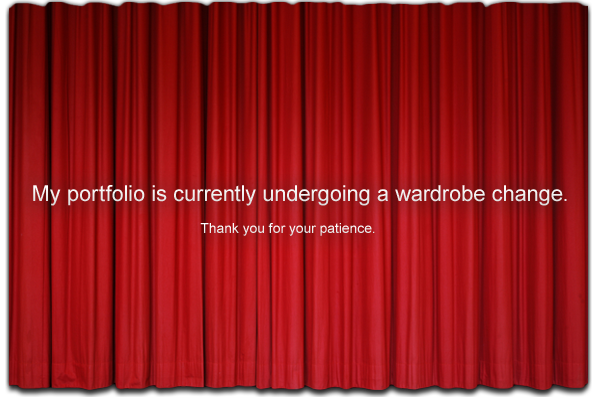
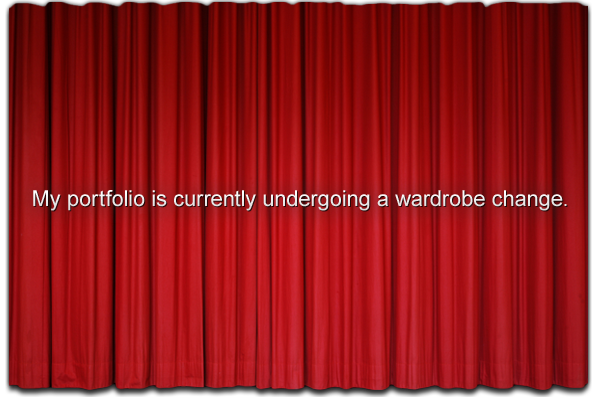
added back soon message

Changed region(s): [[0.06, 0.4534, 0.96, 0.6045]]

diff --git a/templates/index.html b/templates/index.html
@@ -45,7 +45,10 @@
     <section id="portfolio">
       <h2>Portfolio</h2>
             
-      <p><img src="/images/wardrobe_change.png" class="curtain" alt="My portfolio is currently undergoing a wardrobe change."></p>
+      <p>
+        <img src="/images/back_soon.png" class="back_soon" alt="Back soon. Promise!">
+        <img src="/images/wardrobe_change.png" class="curtain" alt="My portfolio is currently undergoing a wardrobe change.">
+      </p>
 
     </section>
     

diff --git a/public/docs/css/screen.css b/public/docs/css/screen.css
@@ -184,6 +184,12 @@ img.mugshot {
 
 /*-  projects
 ----------------------------------------------------------------------*/
+img.back_soon {
+  position: absolute;
+  right: -90px;
+  top: 50px;
+}
+
 section#portfolio {
   position: relative;
 }
